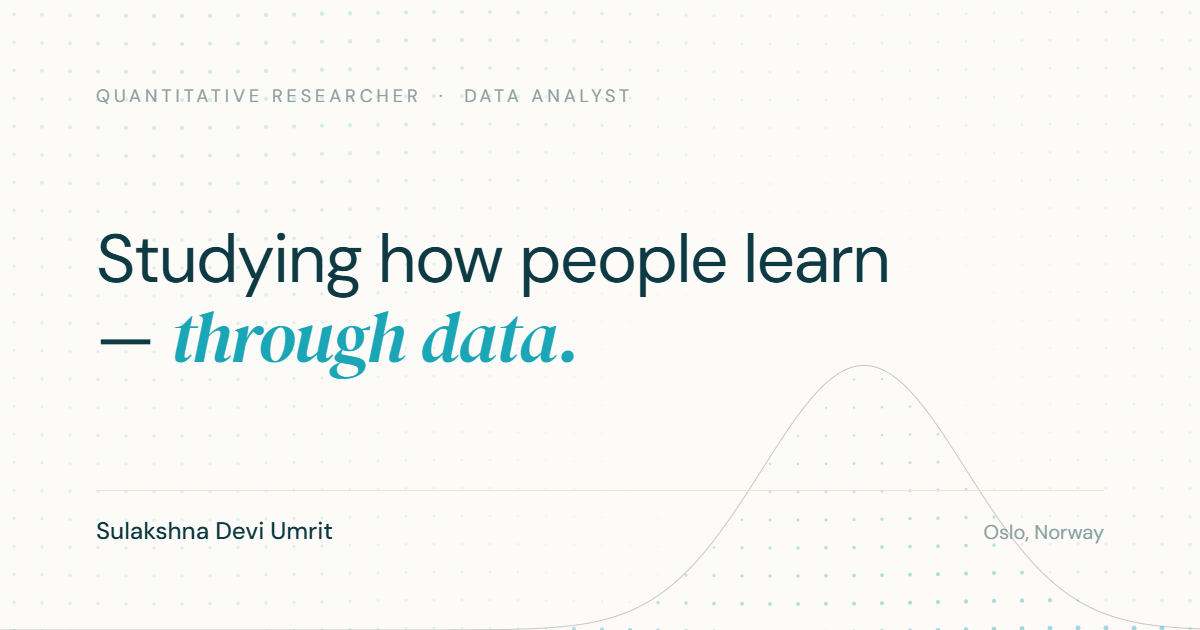
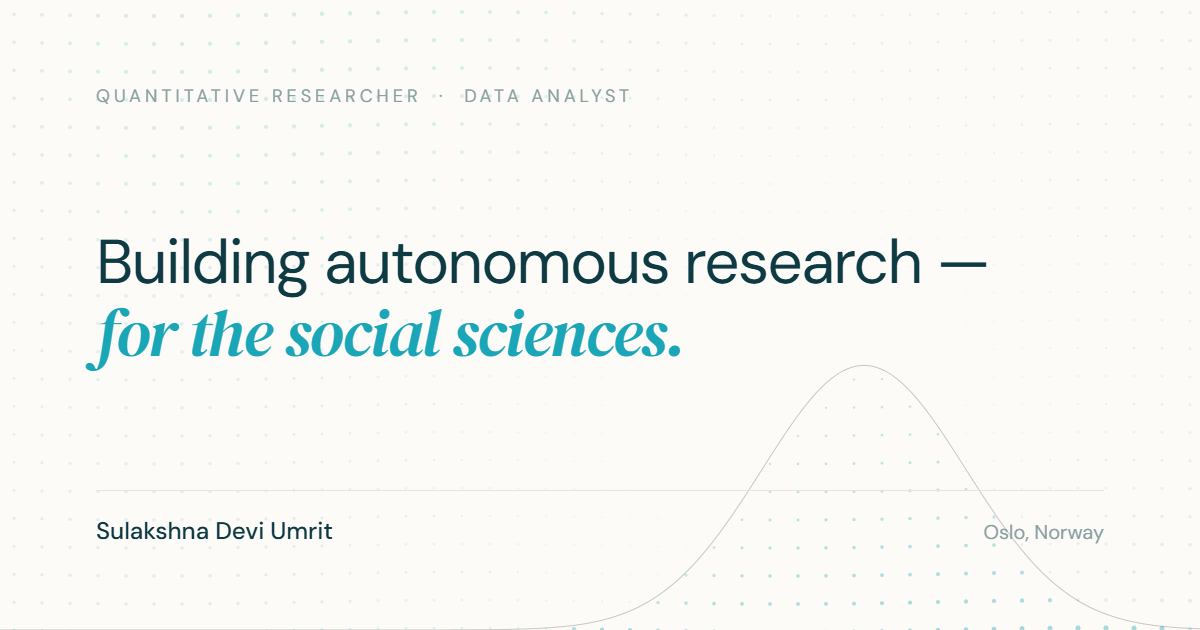
New headline: Building autonomous research — for the social sciences
Updates the hero, meta description and Open Graph image to match.

Changed region(s): [[0.0617, 0.3619, 0.8325, 0.4825], [0.0617, 0.4825, 0.5858, 0.6032]]

diff --git a/src/data/content.ts b/src/data/content.ts
@@ -6,7 +6,7 @@ export const site = {
   shortName: 'Sulakshna Umrit',
   title: 'Sulakshna Umrit — Quantitative Researcher & Data Analyst',
   description:
-    'Sulakshna Devi Umrit is a quantitative researcher and data analyst in Oslo, studying how people learn through data — survey statistics, multilevel models, machine learning and agentic AI.',
+    'Sulakshna Devi Umrit is a quantitative researcher and data analyst in Oslo, building autonomous research for the social sciences — agentic AI, survey statistics, multilevel models and machine learning.',
   locale: 'en_GB',
   ogImage: '/og-image.png',
   ogImageAlt: 'Sulakshna Umrit — Quantitative Researcher & Data Analyst',
@@ -27,8 +27,8 @@ export const nav = [
 
 export const hero = {
   eyebrow: ['Quantitative Researcher', 'Data Analyst'],
-  title: 'Studying how people learn —',
-  titleAccent: 'through data.',
+  title: 'Building autonomous research —', // non-breaking space keeps the dash on the first line
+  titleAccent: 'for the social sciences.',
   primaryLink: { label: 'View work', href: '#work' },
   secondaryLink: { label: 'Get in touch', href: '#contact' },
   portrait: { src: '/images/portrait.jpg', alt: 'Portrait of Sulakshna Devi Umrit' },
